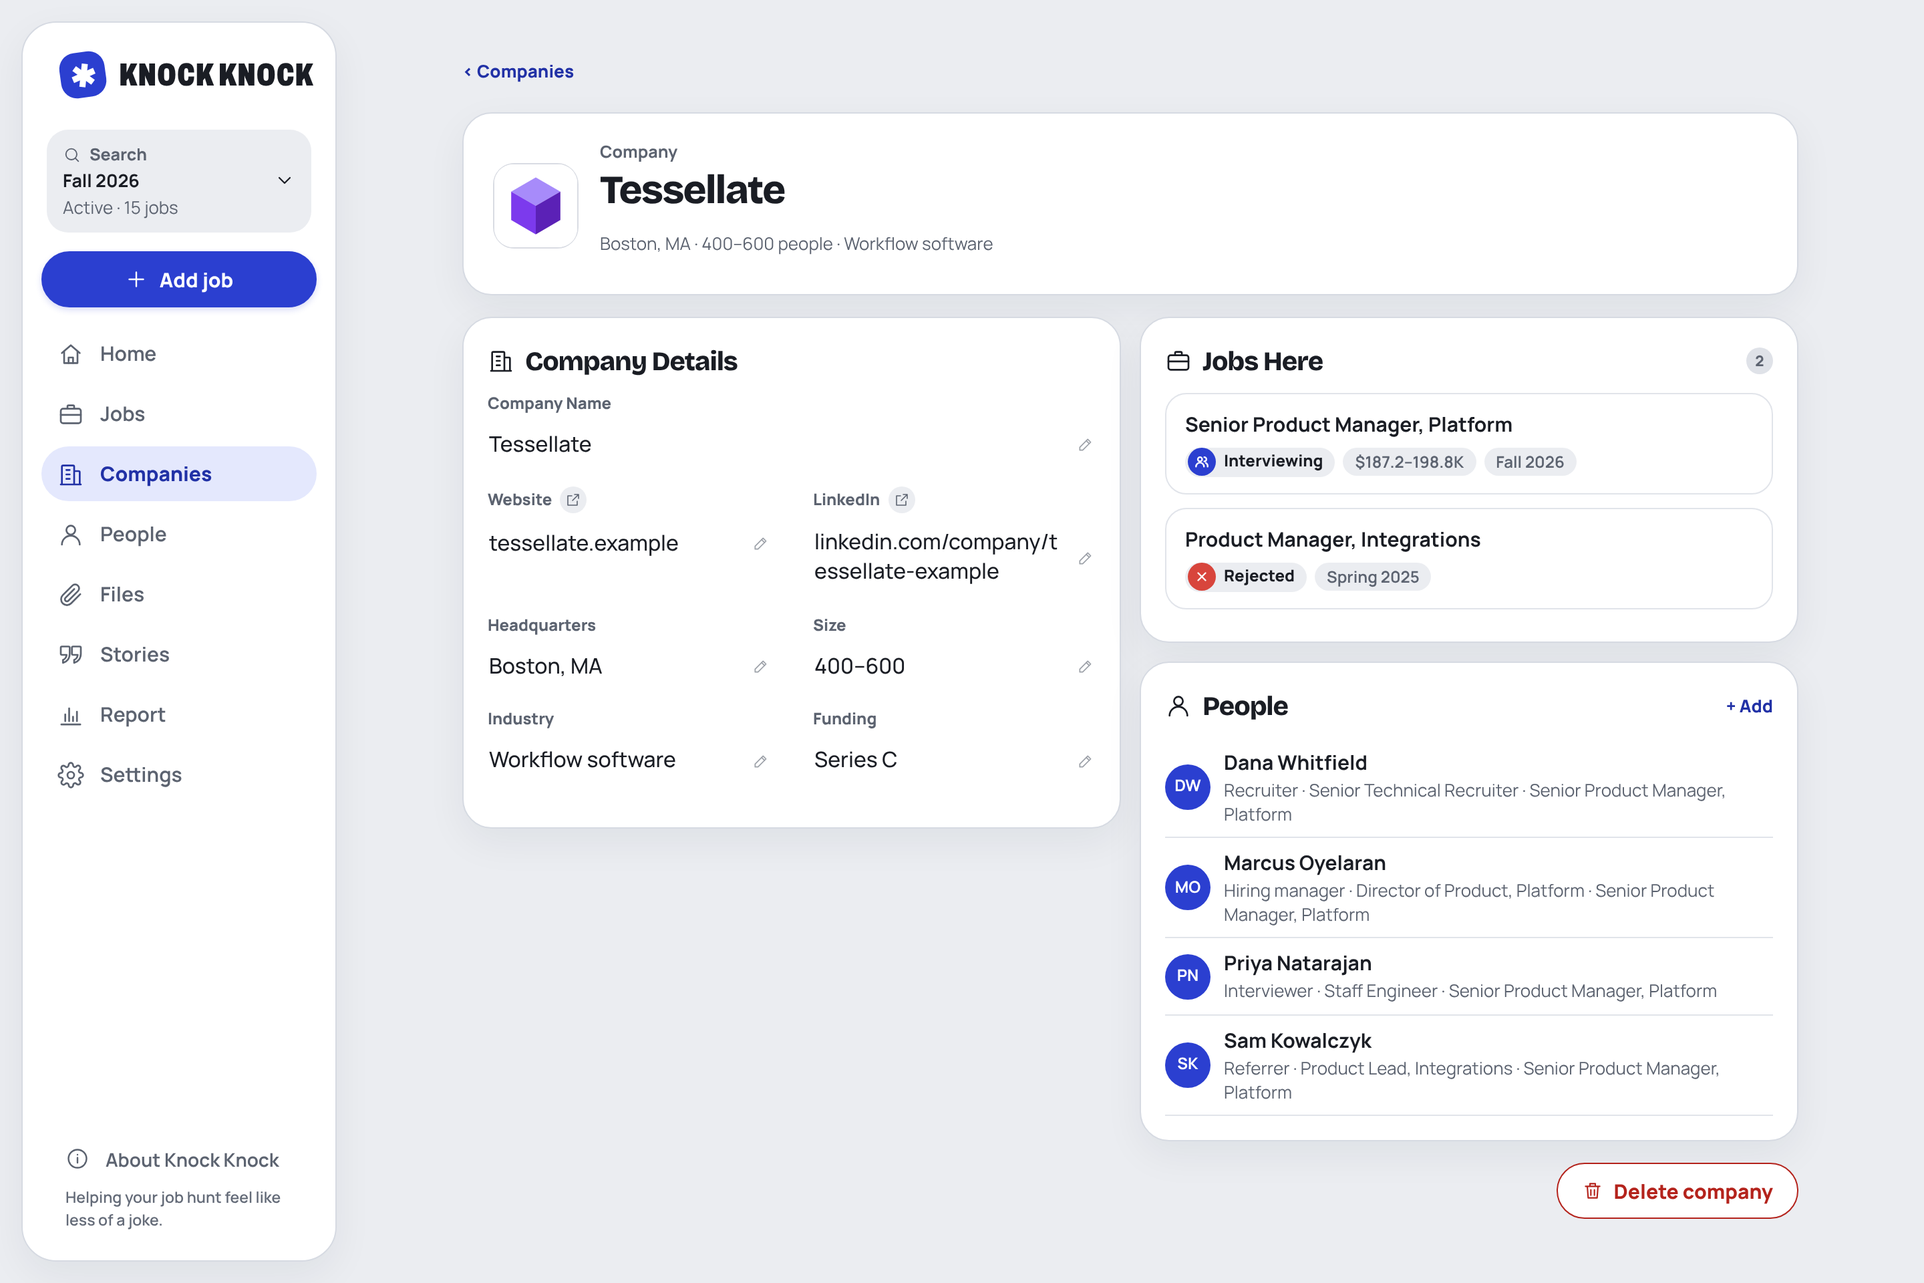
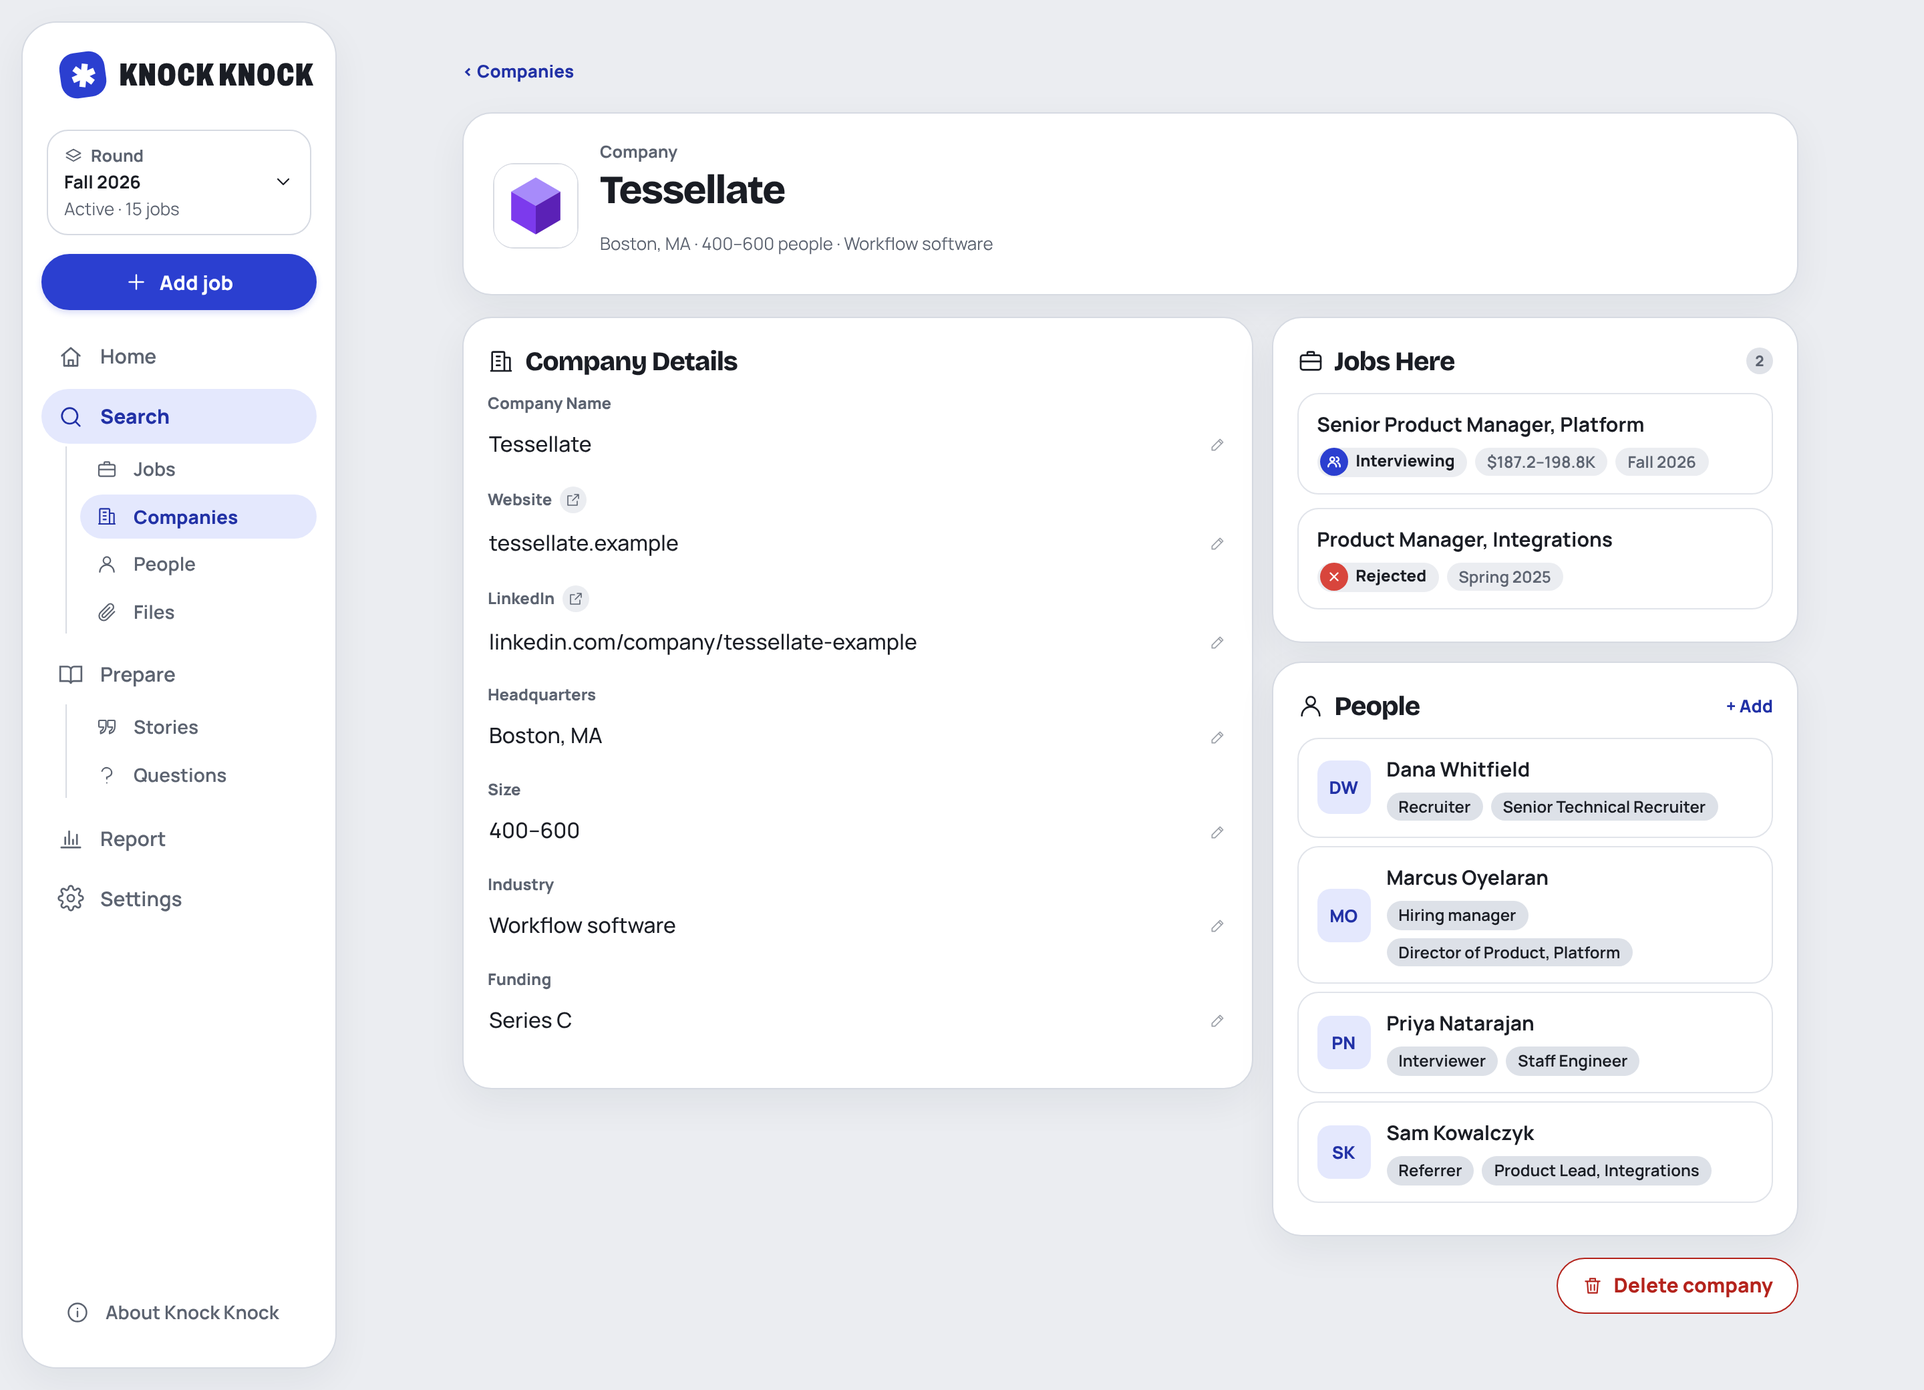
Knock Knock 1.1.7: screenshots of Prepare, Questions and the new Call Mode
- Every README screenshot re-rendered for 1.1.4 to 1.1.6 (rounds, the Search and Prepare
  sections, the funnel, people as cards, job header pill icons), plus hero.png and ai-chat.png
  (round_overview in place of search_overview)
- New: the Questions bank, a job's Stories and Questions tabs (linked and job-only), Call Mode's
  Questions tab with answers and ticks
- README: Stories and Questions as banks you link to jobs plus job-only ones, the new Call Mode,
  Jobs cards, the report's funnel, rounds, files on several jobs

Claude-Session: https://claude.ai/code/session_01PCXyg1odGgu7ewnwgy9TLQ

diff --git a/README.md b/README.md
@@ -1,12 +1,12 @@
 # Knock Knock
 
-A job search tracker you host yourself, built for doing the search with an AI assistant. Paste a pile of job links to Claude and they land as jobs with the pay, level, reports-to and must-haves filled in. Let it read your inbox and calendar, and each confirmation, scheduling email, rejection and interview invite lands on the right job's timeline, without duplicates. Then, on the call itself, your stories are one search away.
+A job search tracker you host yourself, built for doing the search with an AI assistant. Paste a pile of job links to Claude and they land as jobs with the pay, level, reports-to and must-haves filled in. Let it read your inbox and calendar, and each confirmation, scheduling email, rejection and interview invite lands on the right job's timeline, without duplicates. Then, on the call itself, your stories are one search away and your questions for them are a tab over.
 
 The app only stores and shows. Your assistant does the reading and the judging over MCP, so there's no AI bill inside the app and nothing scans your mail behind your back.
 
 [![Deploy to Cloudflare](docs/deploy-to-cloudflare.svg)](https://deploy.workers.cloudflare.com/?url=https://github.com/tyler-class/knockknock)
 
-![Knock Knock on a laptop and a phone: the Jobs board with each job's logo, pay and what needs doing, and a job's timeline with the panel interview coming up](docs/screenshots/hero.png)
+![Knock Knock on a laptop and a phone: the Jobs board with each job's logo, pay, work mode and last activity, and a job's timeline with today's panel interview on top](docs/screenshots/hero.png)
 
 One deployment is one person's job search (or many, one after another: rounds keep each stretch separate). It runs on your own Cloudflare account, and the free plan is plenty.
 
@@ -20,15 +20,17 @@ Counts for the round you're in (applications, open, applied this week, interview
 
 ### Jobs
 
-A board with a lane per stage on a computer, a list with stage tabs on a phone. Drag cards into your own order within a lane, or onto another lane to change the status. Each card shows the company's logo, pay, work mode and source, how long since anything happened, and a highlighted pill only when there's something to act on: an interview coming up, an offer to decide on, a job gone quiet.
+A board with a lane per stage on a computer, a list with stage tabs on a phone, opening on the furthest stage you've reached. Drag cards into your own order within a lane, or onto another lane to change the status. Each card shows the company's logo, pay, work mode and how long since anything happened. The list adds a highlighted pill only when there's something to act on: a meeting coming up, an offer to decide on, a job gone quiet.
 
-![The Jobs board: Applied, Screening, Interviewing and Offer lanes, each card with its company's logo or monogram, pay, work mode, source and what needs doing](docs/screenshots/jobs.png)
+Jobs sits under **Search** with Companies, People and Files: one row of tabs, and a search box on each.
+
+![The Jobs board: Applied, Screening, Interviewing and Offer lanes, each card with its company's logo or monogram, pay, work mode and last activity](docs/screenshots/jobs.png)
 
 ### A page for every job
 
-A header with the title, company, work mode, location, applied date and pay, and a stage bar: Saved → Applied → Screening → Interviewing → Offer → Closed (Accepted, Rejected, Declined or Ghosted). Tap a stage to move the job there. Tabs for Details, Timeline, Stories, Questions and Files. Every detail (title, pay, links, requirements, notes, the pasted posting) edits in place where it's shown: tap it, type, and it saves when you press Enter or click away.
+A header with the title, company, work mode, location, applied date and pay, and a stage bar: Saved → Applied → Screening → Interviewing → Offer → Closed (Accepted, Rejected, Declined or Ghosted). Tap a stage to move the job there. Tabs for Details, Timeline, Stories, Questions and Files. Every detail (title, pay, links, requirements, notes, the pasted posting) edits in place where it's shown: tap it, type, and it saves when you press Enter or click away. Fields with nothing in them wait behind **Show more**.
 
-![A job's Details tab: The Job card with every field editable in place, the Company card with the company's logo and its other jobs, and the people on the job](docs/screenshots/job.png)
+![A job's Details tab: the header with pills for work mode, location, applied date and pay, The Job card with every field editable in place, the Company card with the company's logo and its other jobs, and the people on the job as cards](docs/screenshots/job.png)
 
 ### The timeline
 
@@ -44,7 +46,7 @@ A company is its own record with its website, LinkedIn, headquarters, size, indu
 
 ![Companies: each company with its logo, or its monogram in the color picked for it](docs/screenshots/companies.png)
 
-A company's page holds its details, the jobs you have there across every search, and its people. Its logo shows here, on the jobs there and in every list. A company can be deleted from its page; the popup says how many jobs and people go with it.
+A company's page holds its details, the jobs you have there across every round, and its people. Its logo shows here, on the jobs there and in every list. A company can be deleted from its page; the popup says how many jobs and people go with it.
 
 ![A company's page: its logo, details, the jobs there across rounds and the people who work there](docs/screenshots/company.png)
 
@@ -52,37 +54,53 @@ A company without a logo gets a monogram: the first letter of its name (skipping
 
 ![A company without a logo: its monogram, and the logo menu with Upload logo and ten colors to choose from](docs/screenshots/company-monogram.png)
 
-**People** and **Files** list everyone and every file across your companies and jobs, beside Companies under one set of tabs. Tap someone to edit them, take them off a job, or delete them.
+**People** and **Files** list everyone and every file across your companies and jobs, beside Jobs and Companies under one row of tabs. Tap someone to edit them, take them off a job, or delete them. A file can be on several jobs: upload it from Files, then link it to each job it went with.
 
 ![People: everyone at your companies, with their role, title, the jobs they're on and their company](docs/screenshots/people.png)
 
 ### Prepare: Stories and Questions
 
-Stories to tell and questions to ask live together under **Prepare**.
+Stories to tell and questions to ask live together under **Prepare**. Each is a bank you keep once and link to jobs, and a job can have its own as well.
 
 #### Stories
 
-STAR, CAR, SOAR, Introduction, Why this job, Why I'm looking, Failure, Weakness, Design decision, or a framework of your own. A story is its framework's parts. Search by the question you were asked and the stories whose words match come up first.
+STAR, CAR, SOAR, Introduction, Why this job, Why I'm looking, Failure, Weakness, Design decision, or a framework of your own (**Custom framework**). A story is its framework's parts. Search by the question you were asked and the stories whose words match come up first.
 
-**A copy for each job.** Linking a story to a job copies it, so you can tailor it and add how to angle it for this company without touching the original. The copy says in plain words when you've changed it for this job or the original in Stories has changed since, and offers the one or two actions that fit.
+![Stories: each story with its framework, including a custom one, and how many jobs use it](docs/screenshots/stories.png)
 
-![Stories: each story with its framework, how many jobs use it, and custom frameworks](docs/screenshots/stories.png)
+**Linked or just for this job.** Linking a story to a job copies it, so you can tailor it and add how to angle it for this company without touching the one in Stories. Or write a story just for the job, and **Save to bank** later if it's worth keeping. A job's stories sit as rows in one card: drag them into the order you'd tell them, and take one off the job with its ✕.
+
+![A job's Stories tab: three stories linked from Stories and one written just for this job, with Save to bank](docs/screenshots/job-stories.png)
 
 #### Questions
 
-A bank of questions to ask in interviews, reused like stories. Link them to a job (they come up on every call for it), or write ones just for that job or just for one meeting; a job's own can be saved to the bank later. A meeting's **Prepare questions** gathers the job's and the meeting's own ahead of the call.
+A bank of questions to ask in interviews: what success looks like in 90 days, how on-call works, the biggest bet on the roadmap. Search it, see how many jobs use each one, and delete the ones you've outgrown.
+
+![Questions: the bank of questions to ask, each with how many jobs use it](docs/screenshots/questions.png)
+
+On a job, **Link from Questions** adds one from the bank, and **New question for this job** writes one just for it. Job questions come up on every call for that job; **Save to bank** keeps a good one for next time. A meeting can have its own questions too, and its **Prepare questions** gathers them with the job's ahead of the call.
+
+![A job's Questions tab: four questions linked from the bank and two written just for this job, in the order you'll ask them](docs/screenshots/job-questions.png)
 
 ### Call Mode
 
-A full-screen view to keep beside the video call: who's in the room and the topics (behind the "i" by the title), call notes that save themselves to the meeting as you type, the meeting's questions with a place to jot each answer, and a search box. Start a line with `Q:` to add a question as it comes up. Option+/ (Alt+/ on a PC) moves between the notes and the search, Option+N and Option+Q between notes and questions; **Shortcuts** lists them all. Type the question you just heard and the job's stories, then the rest of Stories, come up with each part in big type and the angle for this job. **End call** asks how it went and saves your reflections as their own note.
+A full-screen view to keep beside the video call, with a handset button on every job and meeting. On the left, **Notes** and **Questions**; on the right, Stories. Drag the divider between them to give either more room. Who's in the room and the topics sit behind the "i" by the title.
 
-![Call Mode: who's in the room, the topics, call notes, and a story found by the question just asked, shown part by part with the angle for this job](docs/screenshots/call-mode.png)
+**Notes** save themselves to the meeting as you type, and come back when you reopen it. Start a line with `Q:` and it turns into a question badge and joins the meeting's questions. Type the question you just heard into the search and the job's stories, then the rest of Stories, come up with each part in big type and the angle for this job.
+
+![Call Mode on the Notes tab: call notes with a question marked Q:, and a story found by the question just asked, shown part by part with the angle for this job](docs/screenshots/call-mode.png)
+
+**Questions** lists the job's questions and the meeting's own, with a place to jot each answer and a tick for the ones you've asked. Answers are kept per meeting, so the same question can get a different answer from each interviewer. Drag them into the order you want to ask them.
+
+![Call Mode on the Questions tab: three questions ticked with what was said, the rest still to ask, including one added from the notes](docs/screenshots/call-mode-questions.png)
+
+Option+/ (Alt+/ on a PC) moves between the notes and the search, Option+N and Option+Q between notes and questions, and Escape clears the search; **Shortcuts** lists them all. **End call** asks how it went and saves your reflections as their own note.
 
 ### Report
 
-Where every application went (a Sankey built from status history), how many heard back and how many reached interviews and offers, response rate by where you found the job and by which resume you sent, median time to hear back, and how many you applied to each week.
+For the round you're in: how many you applied to, heard back from and reached interviews and offers with; an Application Funnel of how far they got and how many moved on at each stage; Paths and Outcomes, where every application went, built from status history; response rate by where you found the job and by which resume you sent; median time to hear back; and how many you applied to each week.
 
-![The report: applied, heard back, interviews and offers, a Sankey of where applications went, response rate by where you found the job and by resume, time to hear back, and applications per week](docs/screenshots/report.png)
+![The report: applied, heard back, interviews and offers, the Application Funnel, Paths and Outcomes, response rate by where you found the job and by resume, time to hear back, and applications per week](docs/screenshots/report.png)
 
 ### Built for phones
 
@@ -92,8 +110,8 @@ Install it to your home screen and it works like an app, with notifications for 
 
 ### And
 
-- **Files.** Resumes, cover letters, transcripts and offer letters in your own private R2 bucket, with a SHA-256 of exactly what you sent. Adding one puts it on the timeline, and the Files page lists every file across your jobs. Transcripts and other text files stay readable for your assistant.
-- **Rounds.** Each stretch of job hunting is its own round. Pick it from the menu at the top of the sidebar; everything but Stories and Companies follows it.
+- **Files.** Resumes, cover letters, transcripts and offer letters in your own private R2 bucket, with a SHA-256 of exactly what you sent. Adding one puts it on the timeline, one file can be on several jobs, and the Files page lists every file across your jobs. Transcripts and other text files stay readable for your assistant.
+- **Rounds.** Each stretch of job hunting is its own round. Pick it from the menu at the top of the sidebar; everything but Prepare and Companies follows it.
 - **Yours.** It runs on your own Cloudflare account, and your data stays in your own database and storage.
 
 <!-- kit:readme:start -->
@@ -273,7 +291,7 @@ Ready-made prompts (in Claude, from the **+** menu):
 
 ## Back up and restore
 
-**Settings → Backup → Download backup** saves everything as one JSON file: searches, companies, applications, people, timelines, stories and their job copies, custom frameworks, settings, and every file's details (and the text of text files). **Restore from backup** replaces everything with a backup's contents. The files themselves live in R2; restoring into the same deployment keeps them attached.
+**Settings → Backup → Download backup** saves everything as one JSON file: rounds, companies, applications, people, timelines, stories and questions with each job's own, custom frameworks, settings, and every file's details (and the text of text files). **Restore from backup** replaces everything with a backup's contents. The files themselves live in R2; restoring into the same deployment keeps them attached.
 
 ## Deploy by hand
 
@@ -308,11 +326,11 @@ npm run dev
 ### How it's built
 
 - **Cloudflare Workers** with static assets. **Hono** serves the API under `/api`. **D1** stores everything; the schema is in `migrations/`:
-  - `searches` group `applications` (jobs). Each job points at its company (`company_id`) and keeps a copy of the company's name and details in its own `company_*` columns, kept in step on every change, so lists, search and assistants read one row. `board_position` is its place within its lane on the Jobs board.
+  - `rounds` group `applications` (jobs). Each job points at its company (`company_id`) and keeps a copy of the company's name and details in its own `company_*` columns, kept in step on every change, so lists, search and assistants read one row. `board_position` is its place within its lane on the Jobs board.
   - `companies` hold a company's website, LinkedIn, headquarters, size, industry, funding and logo (stored in R2), and `logo_color`, the monogram's color when there's no logo (a key from `LOGO_COLORS` in `src/shared/logo.ts`; null is ultramarine). Several jobs can be at one company; a company name written to a job links it to the company of that name, ignoring case, or makes one.
   - `people` work at a company (`company_id`), with a role (`recruiter`, `hiring_manager`, `interviewer`, `referrer` or `other`, with `other_role` in their own words). `job_people` says which of its jobs each person is on. Deleting a job leaves its people at the company.
   - `events` are the timeline: one table for created, status, meeting, email and note events. Each type's own fields are JSON checked by zod schemas in `src/shared/schemas.ts`. A partial unique index refuses a repeated `external_ref` per job.
-  - `stories` and `job_stories` (each job's copies), `frameworks` (custom ones; the built-in frameworks live in code) and `files` (metadata, hash and kept text; the bytes are in R2).
+  - `stories` and `job_stories` (each job's stories: copies from Stories, or written just for it), `questions` and `job_questions` (the same for questions; a meeting's own questions, answers and ticks live on the meeting), `frameworks` (custom ones; the built-in frameworks live in code) and `files` (metadata, hash and kept text; the bytes are in R2).
 - A job's `status` is a cache of its timeline: the newest created or status event (by when it happened) decides it, recomputed on every change (`src/shared/logic/status.ts`).
 - Story copies remember the original's version and a content hash from when they were copied, which is enough to tell whether the copy, the original, or both have changed since (`src/shared/logic/stories.ts`). Stories are searched by title, framework name and the parts' text.
 - Report numbers come from `src/shared/logic/report.ts`. "Heard back" means a job moved past Applied or was rejected; time to hear back runs from applying to the first such change.
